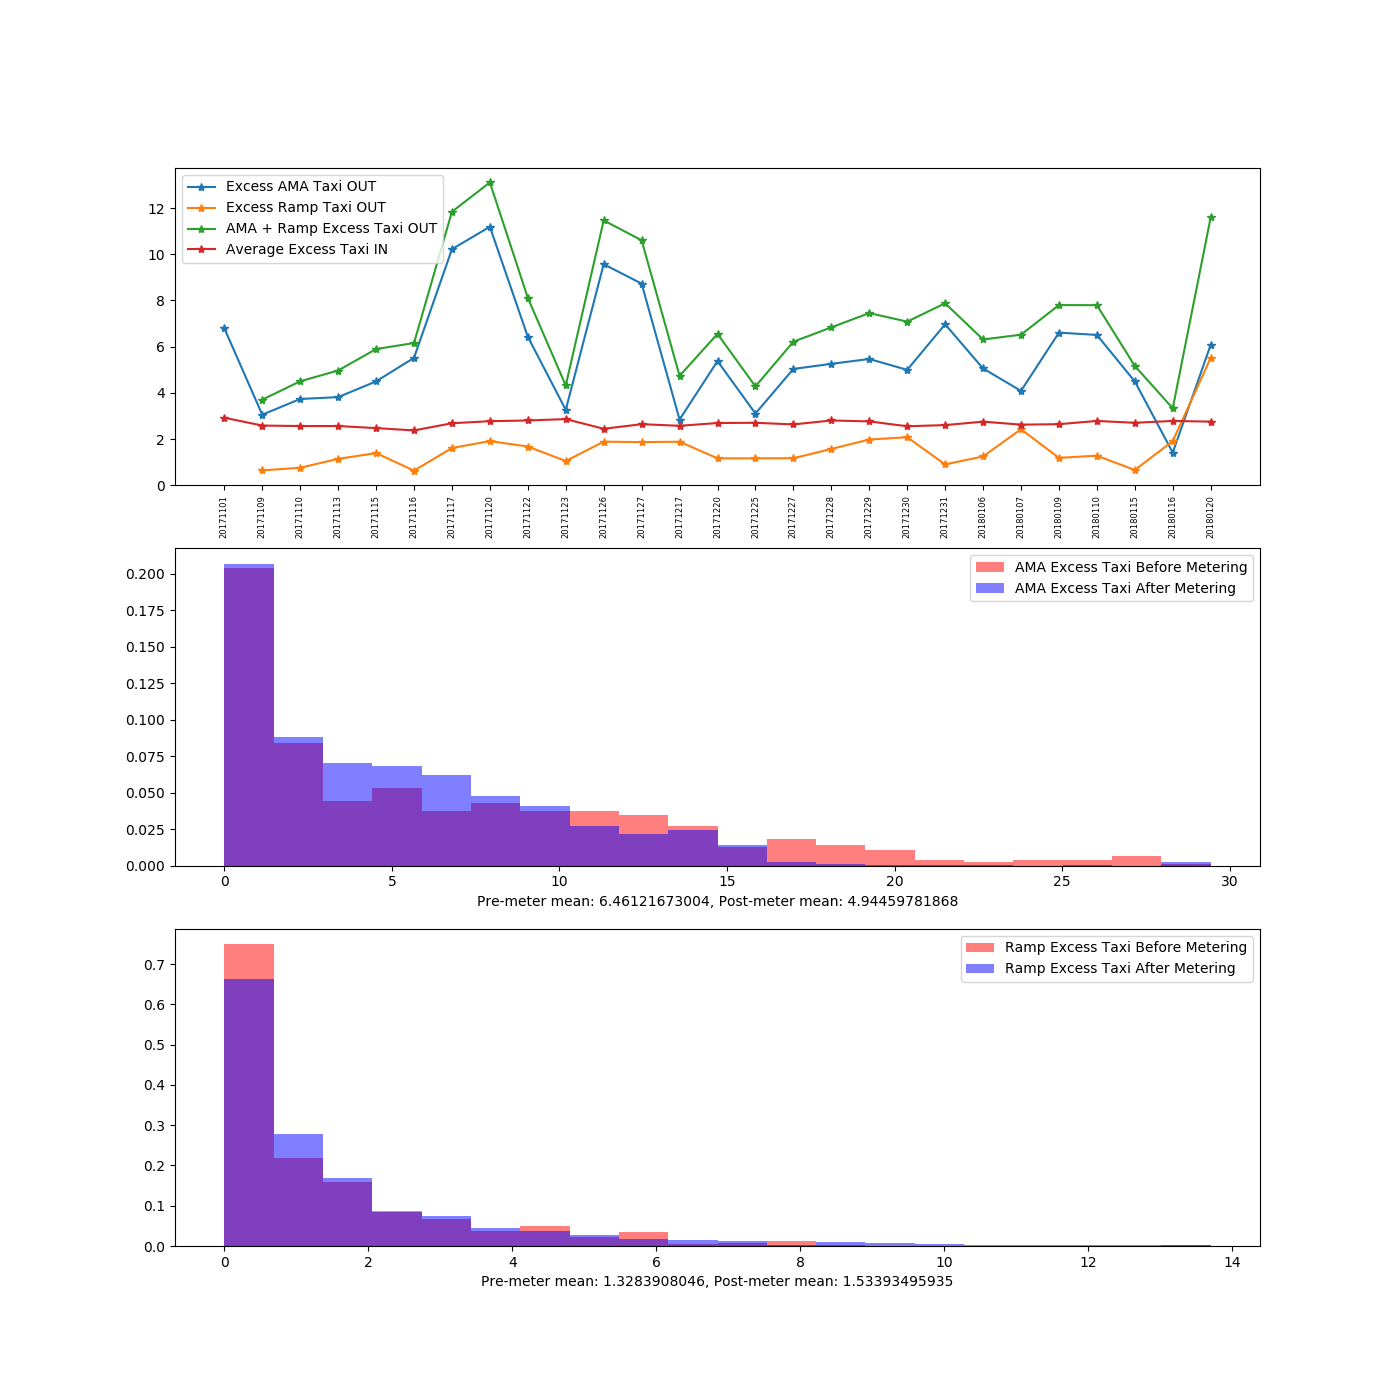
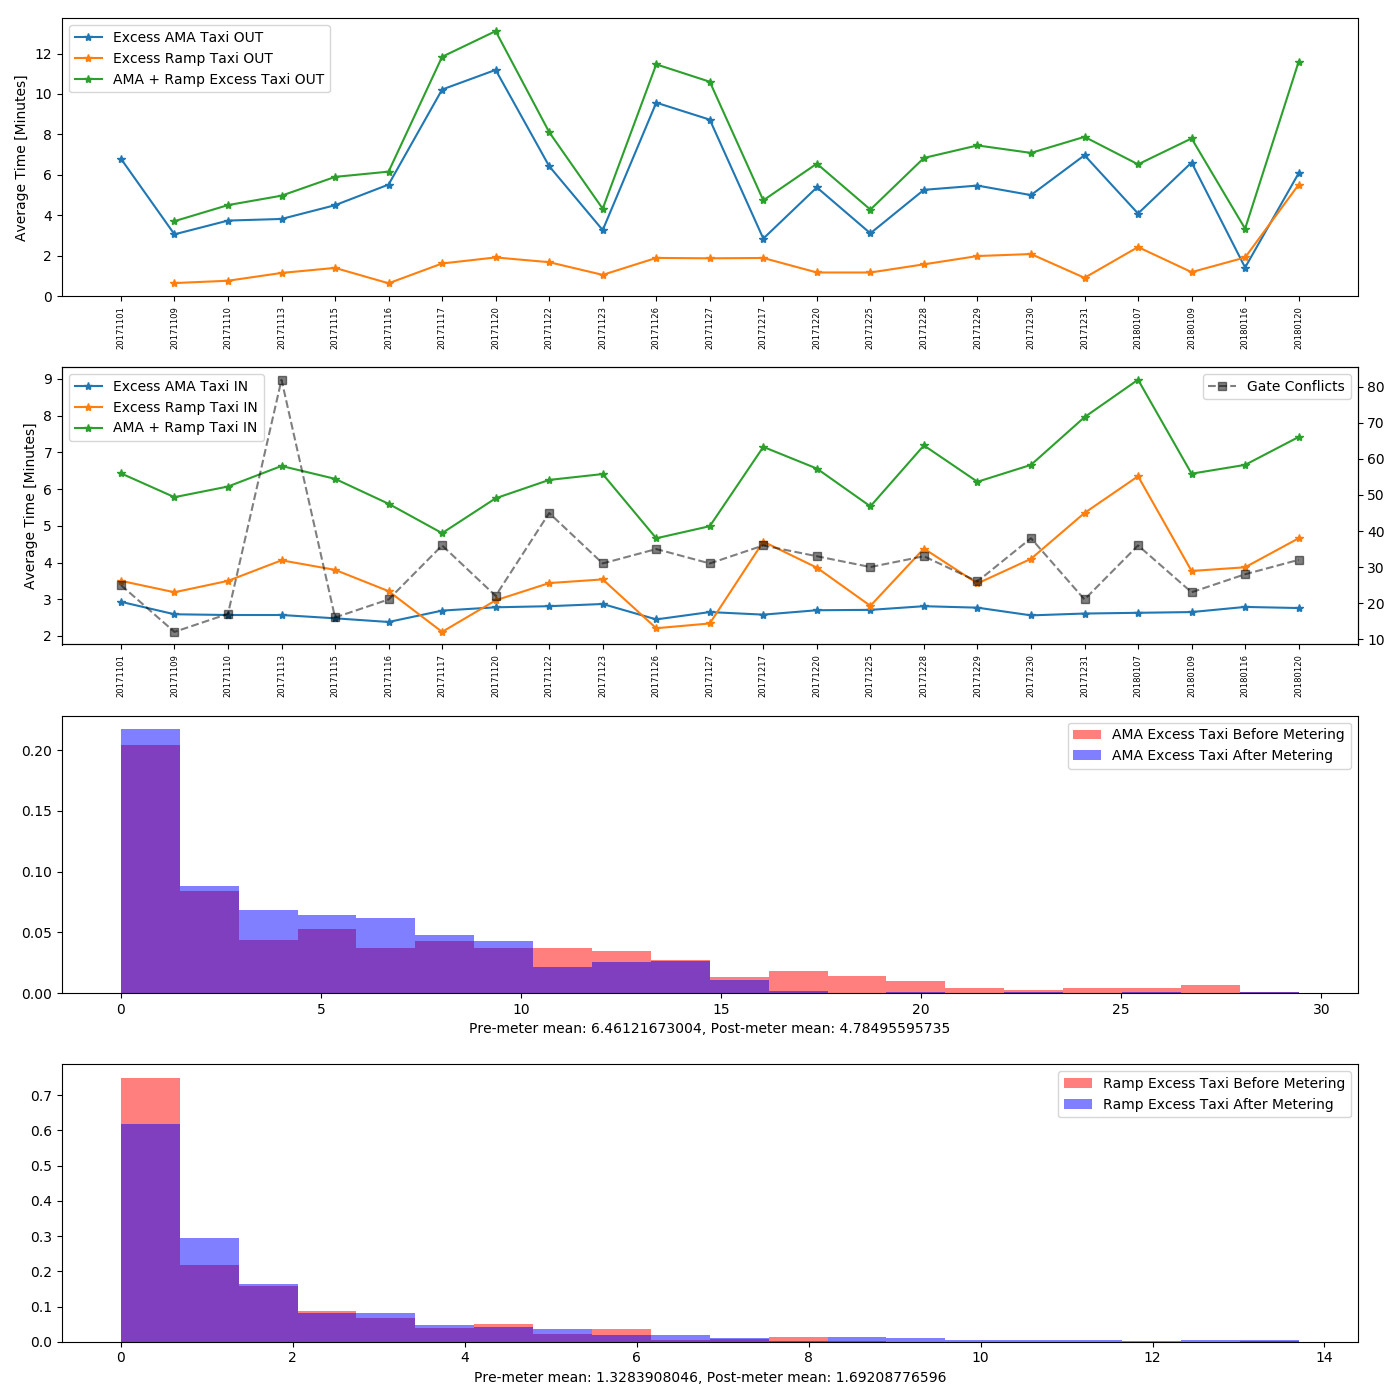
update

diff --git a/exploreData.py b/exploreData.py
@@ -4,8 +4,23 @@ import matplotlib.pyplot as plt
 import os
 from scipy import stats
 
+excludeEarlyDays = True
+filterTail = True
 
-stSaveFig = 'N_BE-A-T=36CFilterDaysFilterTailWithArrival.png'
+#'N_BE/A/T=36C'
+utilization = 'N_BE/A/T=36C'
+stSave = utilization.replace('/','-')
+
+if excludeEarlyDays:
+	if filterTail:
+		stSaveFig = 'figs/' + stSave + 'FilterDaysFilterTailWithArrival.png'
+	else:
+		stSaveFig = 'figs/' + stSave + 'FilterDaysWithArrival.png'
+else:
+	if filterTail:
+		stSaveFig = 'figs/' + stSave + 'FilterTailWithArrival.png'
+	else:
+		stSaveFig = 'figs/' + stSave + 'WithArrival.png'
 
 taxiUpperBound = 30
 rampTaxiUpperBound = 15
@@ -32,13 +47,14 @@ for i in range(1,32):
 		dateVecIADS.append(str0 + str(i) )
 
 str0 = '201801'
-for i in range(1,23):
+for i in range(1,25):
 	if i < 10:
 		dateVecIADS.append(str0 + '0' + str(i) )
 	else:
 		dateVecIADS.append(str0 + str(i) )
 
 AvgExcessTaxiIn = []
+AvgRampTaxiIn = []
 AvgExcessAMA = []
 AvgExcessRamp = []
 AvgExcessRampV2 = []
@@ -49,24 +65,31 @@ preMeterAMA = []
 postMeterAMA = []
 preMeterTotal = []
 postMeterTotal = []
+taxiInTotal = []
+gateConflicts = []
+preGateConflicts = []
+postGateConflicts = []
+sFlowBinary = []
 
-excludeVec = ['20180111','20180117','20180112']
+excludeVec = ['20171226','20171227', '20180106', '20180110',  '20180111',  '20180115' , '20180117','20180112']
 
-excludeVec.append('20171129')
-excludeVec.append('20171130')
 
-str0 = '201712'
-for i in range(1,17):
-	if i < 10:
-		excludeVec.append(str0 + '0' + str(i) )
-	else:
-		excludeVec.append(str0 + str(i) )
+if excludeEarlyDays == True:
+	excludeVec.append('20171129')
+	excludeVec.append('20171130')
+
+	str0 = '201712'
+	for i in range(1,17):
+		if i < 10:
+			excludeVec.append(str0 + '0' + str(i) )
+		else:
+			excludeVec.append(str0 + str(i) )
 
 for date in range(len(dateVecIADS)):
 	try:
 		if dateVecIADS[date] not in excludeVec:
-			dfIads = pd.read_csv('data/' + dateVecIADS[date] + '_iads_summary_0.5.csv' , sep=',' , index_col=False)
-			dfFlightSpecifc = pd.read_csv('data/' + dateVecIADS[date] + '_flight_specific_0.5.csv' , sep=',' , index_col=False)
+			dfIads = pd.read_csv('data/0.6/' + dateVecIADS[date] + '_iads_summary_0.6.csv' , sep=',' , index_col=False)
+			dfFlightSpecifc = pd.read_csv('data/0.6/' + dateVecIADS[date] + '_flight_specific_0.6.csv' , sep=',' , index_col=False)
 		
 			#break
 		
@@ -75,14 +98,18 @@ for date in range(len(dateVecIADS)):
 			for j in range(len(dfIads['Broader Bank Number'])):
 				if str(dfIads['Broader Bank Number'][j]) == str(2.0):
 					bankIndex = j
+			
+			countGateConflicts = 0
+			beforeFlag = False
 			#if True:
-			#'N_BE/A/T=36C'
-			if str(dfIads['Runway Utilization At Start'][bankIndex]) == 'N_BE/A/T=36C':
+			if str(dfIads['Runway Utilization At Start'][bankIndex]) == utilization:
 				if str(dfIads['Positive Excess AMA taxi-out time statistics without FAA Controlled(mean)'][bankIndex]) != 'nan':
 					xTickVec.append(dateVecIADS[date])
 					AvgExcessAMA.append(dfIads['Positive Excess AMA taxi-out time statistics without FAA Controlled(mean)'][bankIndex])
 					AvgExcessRamp.append(dfIads['Positive Excess Ramp taxi-out time statistics without FAA Controlled(mean)'][bankIndex])
 					AvgExcessTaxiIn.append(dfIads['Positive Excess AMA taxi-in time statistics(mean)'][bankIndex])
+					AvgRampTaxiIn.append(dfIads['Positive Excess ramp taxi-in time statistics(mean)'][bankIndex])
+					taxiInTotal.append(dfIads['Positive Excess AMA taxi-in time statistics(mean)'][bankIndex] + dfIads['Positive Excess ramp taxi-in time statistics(mean)'][bankIndex])
 					excessRamp = []
 					for flight in range(len(dfFlightSpecifc['gufi'])):
 						if str(dfFlightSpecifc['isArrival'][flight]) == 'False':
@@ -97,6 +124,7 @@ for date in range(len(dateVecIADS)):
 												excessRamp.append(excessRamp0/ float(60))
 												if pd.Timestamp(dfFlightSpecifc['Actual_OUT'][flight]) < pd.Timestamp('2017-11-29 00:00:00'):
 													#print('LESS THAN')
+													beforeFlag = True
 													if excessRamp0/ float(60) < rampTaxiUpperBound:
 														preMeterRamp.append(excessRamp0/ float(60))
 													tVal = dfFlightSpecifc['Pos_Excess_AMA_Taxi_Out'][flight]
@@ -123,14 +151,29 @@ for date in range(len(dateVecIADS)):
 												# if (excessRamp0 / float(60)) < -3  :
 												# 	print(dateVecIADS[date])
 												# 	print(dfFlightSpecifc['gufi'][flight])
+
+						else:
+							if str(dfFlightSpecifc['Bank Number'][flight]) == str(2.0):
+								if str(dfFlightSpecifc['gate_conflict_values_present'][flight]) == 'True':
+									countGateConflicts +=1
+									print(countGateConflicts)
+					
+
 					print(dateVecIADS[date])
 					print(len(excessRamp))
 					AvgExcessRampV2.append(np.mean(excessRamp))
-					if pd.Timestamp(dfFlightSpecifc['Actual_OUT'][0]) < pd.Timestamp('2017-11-29 00:00:00'):
+					if beforeFlag:
 						preMeterTotal.append(np.mean(excessRamp) + dfIads['Positive Excess AMA taxi-out time statistics without FAA Controlled(mean)'][bankIndex])
 					else:
 						postMeterTotal.append(np.mean(excessRamp) + dfIads['Positive Excess AMA taxi-out time statistics without FAA Controlled(mean)'][bankIndex])
 					#print(excessRamp)
+
+					gateConflicts.append(countGateConflicts)
+					if beforeFlag:
+						if dateVecIADS[date] != '20171113':
+							preGateConflicts.append(countGateConflicts)
+					else:
+						postGateConflicts.append(countGateConflicts)
 
 	except:
 		print('Bad Data Day = ' + str(dateVecIADS[date]))
@@ -153,24 +196,44 @@ D,pVal = stats.ks_2samp(preMeterAMA,postMeterAMA)
 print('THIS IS THE P VALUE')
 print(pVal)
 
-plt.figure(1,figsize=(14,14))
+print('\n')
+print('\n')
+print(preGateConflicts)
+print('Pre Gate Conflicts = ' + str(np.mean(preGateConflicts)) ) 
+print(postGateConflicts)
+print('Post Gate Conflicts = ' + str(np.mean(postGateConflicts)) )
 
+#plt.figure(1,figsize=(14,14))
+fig, host = plt.subplots(figsize=(14,14))
 
-plt.subplot(3,1,1)
+plt.subplot(4,1,1)
 plt.plot(AvgExcessAMA,'-*',label='Excess AMA Taxi OUT')
-#plt.plot(AvgExcessRamp,label='Excess Ramp Taxi')
 plt.plot(AvgExcessRampV2,'-*',label='Excess Ramp Taxi OUT')
 plt.plot(vecAdd,'-*',label = 'AMA + Ramp Excess Taxi OUT')
-plt.plot(AvgExcessTaxiIn,'-*',label='Average Excess Taxi IN')
 plt.xticks(np.arange(len(xTickVec)),xTickVec,rotation =90,fontsize = 6)
+plt.ylabel('Average Time [Minutes]')
 plt.legend()
+plt.title('Utilization: ' + utilization)
+
+plt.subplot(4,1,2)
+
+plt.plot(AvgExcessTaxiIn,'-*',label='Excess AMA Taxi IN')
+plt.plot(AvgRampTaxiIn,'-*',label='Excess Ramp Taxi IN')
+plt.plot(taxiInTotal,'-*' , label = 'AMA + Ramp Taxi IN')
+plt.xticks(np.arange(len(xTickVec)),xTickVec,rotation =90,fontsize = 6)
+plt.ylabel('Average Time [Minutes]')
+plt.legend()
+par1 = plt.twinx()
+par1.plot(np.array(gateConflicts),'--s',color = 'black', alpha = 0.5,label='Gate Conflicts')
+par1.legend()
 
 
 
 
 
 
-plt.subplot(3,1,2)
+
+plt.subplot(4,1,3)
 xMinVal = min([min(preMeterAMA),min(postMeterAMA)])
 xMaxVal = max([max(preMeterAMA),max(postMeterAMA)])
 plt.hist(preMeterAMA,range=[xMinVal,xMaxVal],bins = 20,color = 'red',alpha = 0.5,normed = True,label='AMA Excess Taxi Before Metering')
@@ -178,7 +241,7 @@ plt.hist(postMeterAMA,range=[xMinVal,xMaxVal],bins = 20,color = 'blue',alpha = 0
 plt.xlabel('Pre-meter mean: ' + str(np.mean(preMeterAMA)) + ', Post-meter mean: ' + str(np.mean(postMeterAMA)))
 plt.legend()
 
-plt.subplot(3,1,3)
+plt.subplot(4,1,4)
 xMinVal = min([min(preMeterRamp),min(postMeterRamp)])
 xMaxVal = max([max(preMeterRamp),max(postMeterRamp)])
 plt.hist(preMeterRamp,range=[xMinVal,xMaxVal],bins = 20,color = 'red',alpha = 0.5,normed = True,label='Ramp Excess Taxi Before Metering')
@@ -186,6 +249,7 @@ plt.hist(postMeterRamp,range=[xMinVal,xMaxVal],bins = 20,color = 'blue',alpha = 
 plt.xlabel('Pre-meter mean: ' + str(np.mean(preMeterRamp)) + ', Post-meter mean: ' + str(np.mean(postMeterRamp)))
 plt.legend()
 
+plt.tight_layout()
 plt.savefig(stSaveFig)
 
 plt.show()

diff --git a/exploreNumberOverThreshold.py b/exploreNumberOverThreshold.py
@@ -4,64 +4,16 @@ import matplotlib.pyplot as plt
 import os
 from scipy import stats
 
-dateVecIADS = []
+excludeEarlyDays = True
 
+#'N_BE/A/T=36C'
+utilization = 'N_BE/A/T=36C'
+stSave = utilization.replace('/','-')
 
-# str0 = '201712'
-# str1 = '2017-12-'
-# for i in range(4,32):
-# 	if i < 10:
-# 		dateVecIADS.append(str0 + '0' + str(i) )
-# 		dateVecSummary.append(str1 + '0' + str(i) )
-# 	else:
-# 		dateVecIADS.append(str0 + str(i) )
-# 		dateVecSummary.append(str1 + str(i) )
-
-
-
-# deltaVec = []
-# deltaVecBank2 = []
-# aboveThreshold = []
-
-# dfIads = pd.read_csv('data/20180104_flight_specific_0.5.csv' , sep=',' , index_col=False)
-# dfSummary = pd.read_csv('~/Documents/Reports/opsSummaryDirectory/tacticalStitched/v0.2/tactical.v0.2._KCLT.flightSummary.v0.3.20180104.09.00-20180105.08.59.20180105.15.15.04.csv' , sep=',' , index_col=False)
-
-# for flight in range(len(dfSummary['gufi'])):
-# 	print(flight)
-# 	print(str(dfSummary['Track_Hit_Out_Time'][flight]))
-# 	if str(dfSummary['Track_Hit_Out_Time'][flight]) == str('False'):
-# 		print('HERE')
-# 		if str(dfSummary['Excess_Taxi_Time'][flight]) != 'nan':
-# 			try:
-# 				print(dfSummary['gufi'][flight])
-# 				summaryTaxi = dfSummary['Excess_Taxi_Time'][flight]
-# 				dfTemp0 = dfIads[ dfIads['gufi'] == dfSummary['gufi'][flight] ]
-# 				dfTemp = dfTemp0.reset_index(drop=True)
-# 				iadsTaxi = dfTemp['Excess_AMA_Taxi_Out'][0] / float(60)
-# 				delta = max([0,summaryTaxi]) - max([0,iadsTaxi])
-# 				if str(delta) != 'nan':
-# 					deltaVec.append(delta)
-# 				print(delta)
-# 				print('\n')
-# 				if str(dfTemp['Broader Bank Number'][0]) == str(2.0):
-# 					deltaVecBank2.append(delta)
-# 					if delta > 14:
-# 						aboveThreshold.append(delta)
-
-# 			except:
-# 				print(dfTemp)
-# 				print('THERE WAS A PROBLEM WITH ' + dfSummary['gufi'][flight])
-
-# print(len(aboveThreshold))		
-# print(deltaVec)
-# print(np.mean(deltaVec))
-# print(np.std(deltaVec))
-# plt.hist(deltaVec)
-# plt.figure()
-# plt.hist(deltaVecBank2)
-# plt.show()
-
-figname = 'RawThresholdData.png'
+if excludeEarlyDays:
+	stSaveFig = 'figs/Threshold' + stSave + 'FilterDays.png'
+else:	
+	stSaveFig = 'figs/Threshold' + stSave + '.png'
 
 dateVecIADS = []
 
@@ -81,28 +33,29 @@ for i in range(1,32):
 		dateVecIADS.append(str0 + str(i) )
 
 str0 = '201801'
-for i in range(1,23):
+for i in range(1,25):
 	if i < 10:
 		dateVecIADS.append(str0 + '0' + str(i) )
 	else:
 		dateVecIADS.append(str0 + str(i) )
 
 
-excludeVec = ['20180111','20180117','20180112']
+excludeVec = ['20171226','20171227', '20180106', '20180110',  '20180111',  '20180115' , '20180117','20180112']
 
-# excludeVec.append('20171129')
-# excludeVec.append('20171130')
+if excludeEarlyDays == True:
+	excludeVec.append('20171129')
+	excludeVec.append('20171130')
 
-# str0 = '201712'
-# for i in range(1,17):
-# 	if i < 10:
-# 		excludeVec.append(str0 + '0' + str(i) )
-# 	else:
-# 		excludeVec.append(str0 + str(i) )
+	str0 = '201712'
+	for i in range(1,17):
+		if i < 10:
+			excludeVec.append(str0 + '0' + str(i) )
+		else:
+			excludeVec.append(str0 + str(i) )
 
 
 plt.figure(1,figsize=(14,10))
-ThresholdVec = [14,18,22]
+ThresholdVec = [16,20,24]
 
 def plotAbove(ThresholdVec):
 
@@ -113,8 +66,8 @@ def plotAbove(ThresholdVec):
 	for date in range(len(dateVecIADS)):
 		# xTickVec.append(dateVecIADS[date])
 		try:
-			dfIads = pd.read_csv('data/' + dateVecIADS[date]+ '_flight_specific_0.5.csv' , sep=',' , index_col=False)
-			dfIadsSummary = pd.read_csv('data/' + dateVecIADS[date] + '_iads_summary_0.5.csv' , sep=',' , index_col=False)
+			dfIads = pd.read_csv('data/0.6/' + dateVecIADS[date]+ '_flight_specific_0.6.csv' , sep=',' , index_col=False)
+			dfIadsSummary = pd.read_csv('data/0.6/' + dateVecIADS[date] + '_iads_summary_0.6.csv' , sep=',' , index_col=False)
 		
 			
 
@@ -124,8 +77,8 @@ def plotAbove(ThresholdVec):
 					bankIndex = j
 
 			if dateVecIADS[date] not in excludeVec:
-				if True:
-				#if str(dfIadsSummary['Runway Utilization At Start'][bankIndex]) == 'N_BE/A/T=36C':
+				#if True:
+				if str(dfIadsSummary['Runway Utilization At Start'][bankIndex]) == 'N_BE/A/T=36C':
 					if str(dfIadsSummary['Positive Excess AMA taxi-out time statistics without FAA Controlled(mean)'][bankIndex]) != 'nan':
 						xTickVec.append(dateVecIADS[date])
 						binaryVec[date] = 1
@@ -156,10 +109,11 @@ def plotAbove(ThresholdVec):
 	plt.ylabel
 
 plotAbove(ThresholdVec)
-
+plt.title('Utilization: ' + utilization)
 plt.ylabel('Number of Aircraft Above Threshold')
 plt.legend()
-plt.savefig(figname)
+plt.tight_layout()
+plt.savefig(stSaveFig)
 plt.show()
 
 		

diff --git a/exploreTaxi.py b/exploreTaxi.py
@@ -24,7 +24,7 @@ deltaVec = []
 deltaVecBank2 = []
 aboveThreshold = []
 
-dfIads = pd.read_csv('data/20180104_flight_specific_0.5.csv' , sep=',' , index_col=False)
+dfIads = pd.read_csv('data/0.6/20180104_flight_specific_0.6.csv' , sep=',' , index_col=False)
 dfSummary = pd.read_csv('~/Documents/Reports/opsSummaryDirectory/tacticalStitched/v0.2/tactical.v0.2._KCLT.flightSummary.v0.3.20180104.09.00-20180105.08.59.20180105.15.15.04.csv' , sep=',' , index_col=False)
 
 for flight in range(len(dfSummary['gufi'])):
